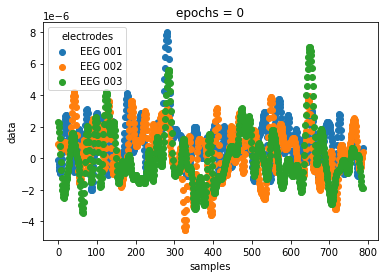
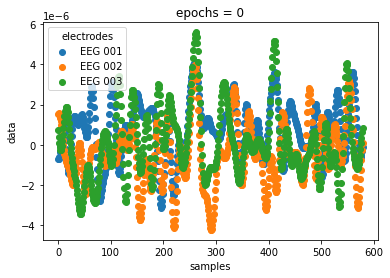
updated README

diff --git a/README.md b/README.md
@@ -11,7 +11,6 @@ A recommended way of using the package is to use a conda environment (see [anaco
 
     $ conda create -n hsmm 
     $ conda activate hsmm
-    $ conda install pip #optional for linux
     $ pip install hsmm_mvpy
 
 Then import pyhsmm-mvpa in your favorite python IDE through:
@@ -52,6 +51,15 @@ The following section will quickly walk you through an example usage in simulate
 First we load the libraries necessary for the demo on simulated data
 
 ### Importing libraries
+
+
+```python
+#Development only
+import sys
+sys.path.insert(0, "/home/gweindel/owncloud/projects/RUGUU/hsmm-mvpy/src")
+%load_ext autoreload
+%autoreload 2
+```
 
 
 ```python
@@ -179,14 +187,14 @@ eeg_dat.sel(epochs=0,electrodes=['EEG 001','EEG 002','EEG 003']).plot.scatter(x=
 ```
 
     <xarray.Dataset>
-    Dimensions:      (participant: 1, epochs: 30, electrodes: 59, samples: 1365)
+    Dimensions:      (participant: 1, epochs: 30, electrodes: 59, samples: 1269)
     Coordinates:
       * epochs       (epochs) int64 0 1 2 3 4 5 6 7 8 ... 21 22 23 24 25 26 27 28 29
       * electrodes   (electrodes) <U7 'EEG 001' 'EEG 002' ... 'EEG 059' 'EEG 060'
-      * samples      (samples) int64 0 1 2 3 4 5 6 ... 1359 1360 1361 1362 1363 1364
+      * samples      (samples) int64 0 1 2 3 4 5 6 ... 1263 1264 1265 1266 1267 1268
       * participant  (participant) <U2 'S0'
     Data variables:
-        data         (participant, epochs, electrodes, samples) float64 -1.045e-0...
+        data         (participant, epochs, electrodes, samples) float64 -6.932e-0...
         event        (participant, epochs) <U8 'stimulus' 'stimulus' ... 'stimulus'
     Attributes:
         sfreq:    600.614990234375
